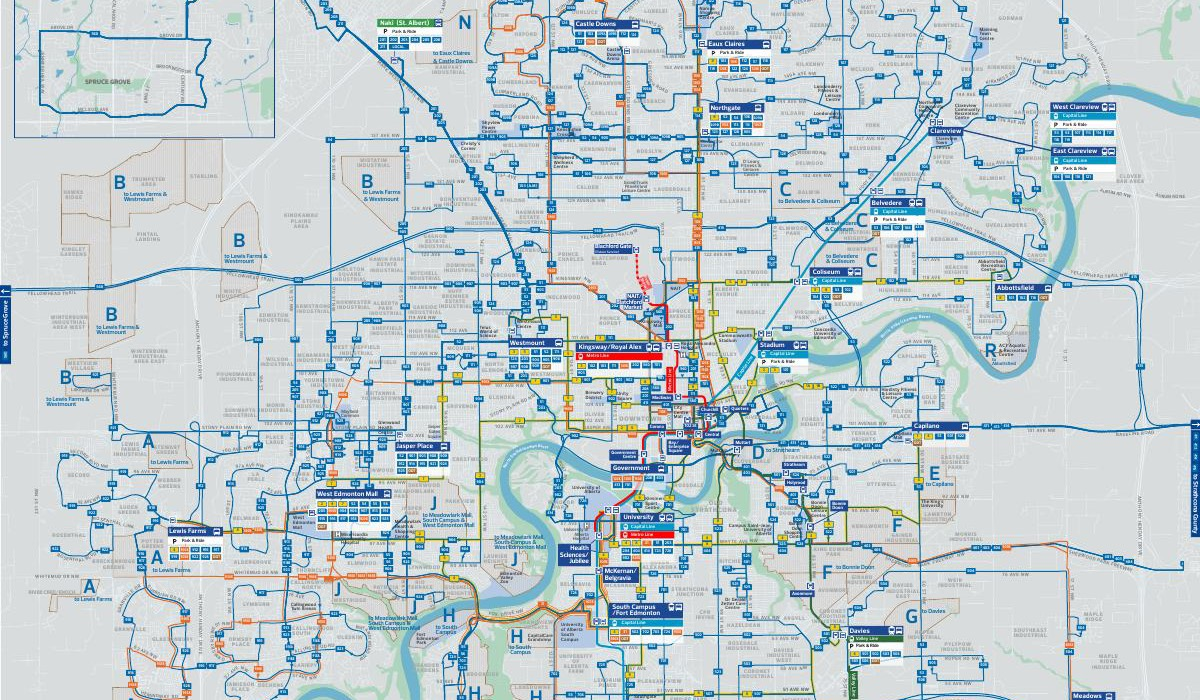
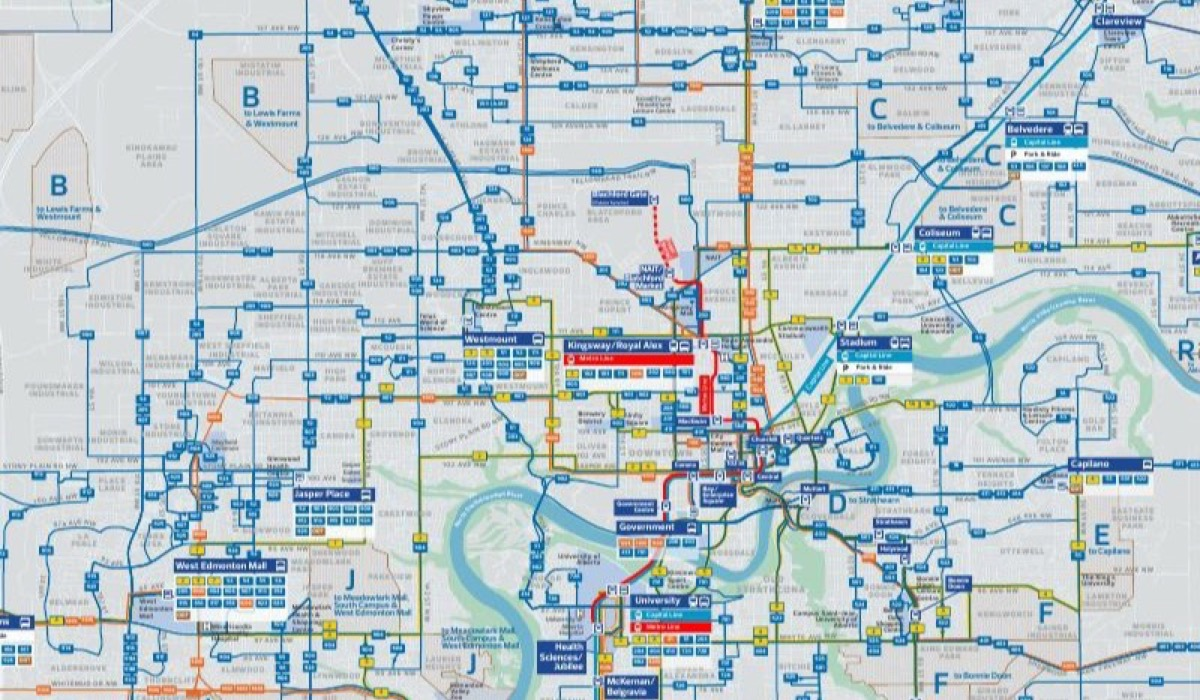
Zoom published map montage frames

diff --git a/CHANGELOG.md b/CHANGELOG.md
@@ -5,7 +5,8 @@ All notable changes to this project will be documented in this file.
 See [CHANGELOG_ARCHIVE.md](CHANGELOG_ARCHIVE.md) for earlier history.
 
 ## [Unreleased]
-- Added a fast montage of uniformly cropped excerpts from real agency-published system-map pages to make the research introduction feel grounded in the source material.
+- Corrected CTA to its 10-minute Frequent Network definition with weekday and weekend service spans.
+- Added a fast montage of tightly cropped excerpts from real agency-published system-map pages to make the research introduction feel grounded in the source material.
 - Corrected Edmonton’s map finding to the published 15-minute Frequent Route definition.
 - Allowed official rider guides as a labeled evidence source alongside system maps for the manual frequency audit.
 - Corrected the first map-audit findings after visual review: TTC is no-definition, while STM is qualitative-only.
